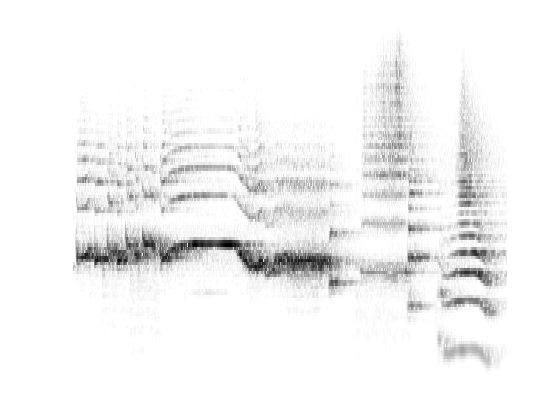
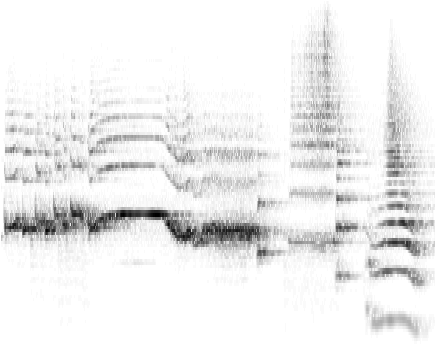
export fig 4

Changed region(s): [[0.0, 0.029, 1.0, 0.9855], [0.2982, 0.7536, 0.328, 0.7826]]

diff --git a/research/dafx15/dafx_fig4.m b/research/dafx15/dafx_fig4.m
@@ -35,4 +35,4 @@ axis off;
 
 
 %% Export
-% export_fig gretsi_fig3a.png -transparent
+export_fig dafx_fig4.png -transparent
